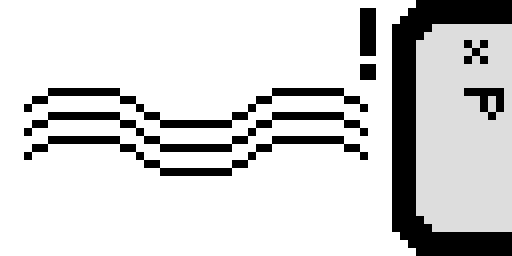
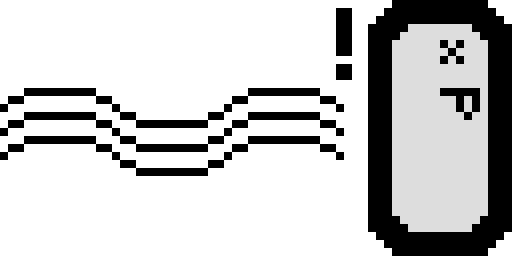
1.0 (legacy)

diff --git a/src/main.cpp b/src/main.cpp
@@ -32,7 +32,8 @@ Potion potion = 0;
 Potion dupepotion = 1;
 Potion doompotion = 2;
 bool dupe = false;
-int highscoreInt = LoadStorageValue(0);
+
+int highscoreInt;
 char highscore[32];
 
 int dot_amount = 1;
@@ -66,7 +67,9 @@ void reset_dotty(void){
     eaten = 0;
     dupe = false;
     dot_amount = 1;
-    highscoreInt = LoadStorageValue(0);
+    #if defined(PLATFORM_DESKTOP)
+        highscoreInt = LoadStorageValue(0);
+    #endif
 
     reset_dots();
     potion.remove();
@@ -241,7 +244,7 @@ bool cont_exit(void){
     for( a = -1; a < 9; a = a + 1 ){
         if (IsGamepadAvailable(a)){
             // there's a gamepad!
-            if (IsGamepadButtonPressed(a, 14) and IsWindowFocused()){
+            if ((IsGamepadButtonPressed(a, 14) or (IsGamepadButtonDown(a, 13) and IsGamepadButtonDown(a, 15))) and IsWindowFocused()){
                 exit = true;
                 if (debug_prints) printf("Home button pressed on controller name %s: exiting...\n", GetGamepadName(a));
             }
@@ -313,10 +316,13 @@ int main(void)
 {
     // TODO: make a splash screen saying who made the game (me)
 
-    if (!opendir("resources")) {
-        printf("Could not find the resources/ folder. This will render the game unplayable.\n");
-        exit(1);
-    }
+    #if defined(PLATFORM_DESKTOP)
+        if (!opendir("resources")) {
+            printf("Could not find the resources/ folder. This will render the game unplayable.\n");
+            exit(1);
+        }
+        SetWindowIcon(LoadImage("resources/images/logo/icon.ico"));
+    #endif
     
     if (extreme_debug_prints) debug_prints = true;
 
@@ -325,7 +331,7 @@ int main(void)
     const int screenHeight = 450;
     InitWindow(screenWidth, screenHeight, "Dotty");
 
-    SetWindowIcon(LoadImage("resources/images/logo/icon.ico"));
+    int framesCounter = 0;  // used to show title screen after 2 seconds
 
     // Initialize audio
       InitAudioDevice();
@@ -344,6 +350,7 @@ int main(void)
       Texture2D dotty_base = LoadTexture("resources/images/dotty/base.png");
       Texture2D dotty_front = LoadTexture("resources/images/dotty/front.png");
       Texture2D dotty_clone = LoadTexture("resources/images/dotty/clone.png");
+      Texture2D dotty_sleep = LoadTexture("resources/images/dotty/sleep.png");
     // Up-down textures
       Image dotty_down_image = LoadImage("resources/images/dotty/down.png");
       Image *dotty_up_image = &dotty_down_image;
@@ -372,8 +379,8 @@ int main(void)
     // Likely unused textures
     //   Texture2D dotty_blink = LoadTexture("resources/images/dotty/blink.png");
     //   Texture2D dotty_half = LoadTexture("resources/images/dotty/half-blink.png");
-    //   Texture2D dotty_sleep = LoadTexture("resources/images/dotty/sleep.png");
     //--------------------------------------------------------------------------------------
+
 
     GameScreen currentScreen = SPLASH;
 
@@ -391,10 +398,11 @@ int main(void)
         {
             case SPLASH: 
             {
-                currentScreen = TITLE; break;
-                if (press_start())
+                framesCounter++;    // Count frames
+
+                if (framesCounter > 90)
                 {
-                    currentScreen = GAMEPLAY;
+                    currentScreen = TITLE;
                 }
             } break;
             case TITLE: 
@@ -499,7 +507,9 @@ int main(void)
             {
                 if (eaten > highscoreInt) highscoreInt = eaten;
 
-                SaveStorageValue(0, highscoreInt);  // stores highscore integer in storage.data in an Int32 format
+                #if defined(PLATFORM_DESKTOP)
+                    SaveStorageValue(0, highscoreInt);  // stores highscore integer in storage.data in an Int32 format
+                #endif
 
                 if (press_start())
                 {
@@ -521,9 +531,17 @@ int main(void)
 
         switch(currentScreen) 
             {
+                case SPLASH: 
+                {
+                    ClearBackground(DARKGRAY);
+                    // TODO: Draw LOGO screen here!
+                    DrawTexture(dotty_sleep, (screenWidth - dotty_sleep.width) / 2, (screenHeight  - dotty_sleep.height) / 2.25, WHITE);
+                    DrawText("made with raylib", 20, screenHeight - 40, 20, WHITE);
+                    
+                } break;
                 case TITLE: 
                 {
-                    DrawRectangle(0, 0, screenWidth, screenHeight, GRAY);
+                    ClearBackground(GRAY);
                     DrawTexture(splash_logo, (screenWidth / 2) - splash_logo.width / 2, (screenHeight / 2) - splash_logo.height * 0.75, GRAY);
                     DrawText("press any key", 290, screenHeight * 0.75, 30, BLACK);
                     
@@ -608,6 +626,30 @@ int main(void)
          //----------------------------------------------------------------------------------
 
     }
+
+    // Unload stuff
+    UnloadTexture(splash_logo);
+    UnloadTexture(dotty_base);
+    UnloadTexture(dotty_front);
+    UnloadTexture(dotty_clone);
+    UnloadTexture(dotty_down);
+    UnloadTexture(dotty_up);
+    UnloadTexture(dotty_right);
+    UnloadTexture(dotty_left);
+    UnloadTexture(dot);
+    UnloadTexture(potion_dot);
+    UnloadTexture(potion_dupe);
+    UnloadTexture(potion_doom);
+    UnloadTexture(oopsies_screenedge);
+    UnloadTexture(oopsies_clonecollision);
+    UnloadTexture(oopsies_what);
+    UnloadTexture(oopsies_doom);
+    UnloadSound(ouchie);
+    UnloadSound(obtained);
+    UnloadSound(potion_sound);
+    UnloadSound(clone_ouchie);
+    // ... is this going to cause a memory leak?
+    
 
     CloseWindow();
 

diff --git a/README.md b/README.md
@@ -1,0 +1,33 @@
+# Dotty
+A simple, arcade-like highscore-based game that takes a **lot** of inspiration, code-wise, from [Terri-Fried](https://github.com/PolyMarsDev/Terri-Fried/).
+(insert gameplay gif)
+
+You control a little square named Dotty, and you have to guide him towards his dots. 
+There are even potions along the way to help you: a potion that duplicates dots, and another that clones Dotty.
+Sounds simple, right? Well, let's complicate it a bit.
+You have to avoid hitting the edge of the screen (or window), the death potions, and hitting your clone.
+
+*Fun fact: I had the idea for this game for almost 2 years (2019, maybe 2018, I don't remember), but have never made it into an actual game*
+
+## How do I compile this?
+This game uses [raylib](https://www.raylib.com/) as a graphics/sound/input library, so I suggest you build raylib 
+([Windows](https://github.com/raysan5/raylib/wiki/Working-on-Windows), [macOS](https://github.com/raysan5/raylib/wiki/Working-on-macOS), [Linux](https://github.com/raysan5/raylib/wiki/Working-on-GNU-Linux), [etc.](https://github.com/raysan5/raylib/wiki))
+then use make (or mingw32-make, or tcc, asjhfggjzad) to compile.
+
+*Tested on Windows 10, Debian and Android 10 (LineageOS 17.1 on a Samsung Galaxy S6 Edge). Note that Android builds may or may not work for you.*
+
+## F.A.Q.
+well should i explain what a faq is
+
+### I want to port this project, but can't find the font that this uses
+This uses raylib's default font, which is its own font. (that definitely is a sentence.) There is a very similar font called "Grixel Acme 9" ([link](https://www.dafont.com/grixel-acme-9.font), [official grixel website](https://www.grixel.gr/)) which you can use.
+
+### When using the Android version, it just crashes/Dotty doesn't open on Android.
+I have the same issue with my LG phone, so far I can't find what exactly is wrong.
+
+### I'd like to implement a new item in this game/I have an idea for this game
+short answer, no.
+
+Long answer: Dotty was meant to be a simple, high-score game, that anyone could pick up and understand how to play 
+(left, right, up, down. get all dots, get potion upgrades, avoid edge of screen, avoid death potion, avoid hitting clone). If I were to add new ideas, then it wouldn't be as simple.
+I definitely could add new items, but that would require a new version/branch of Dotty.
